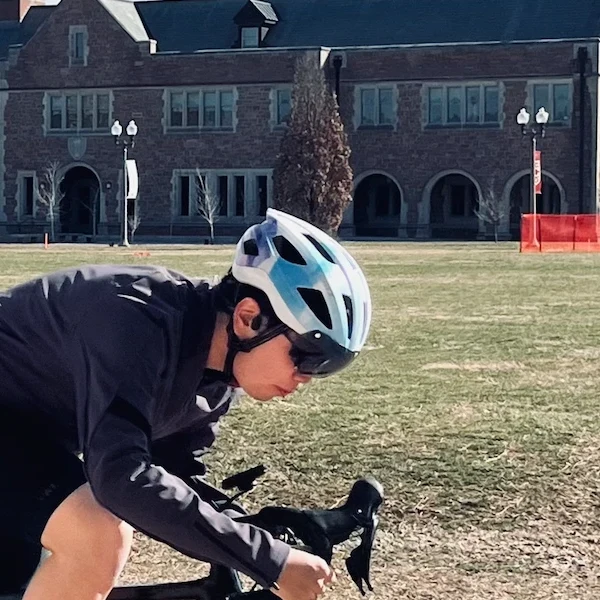
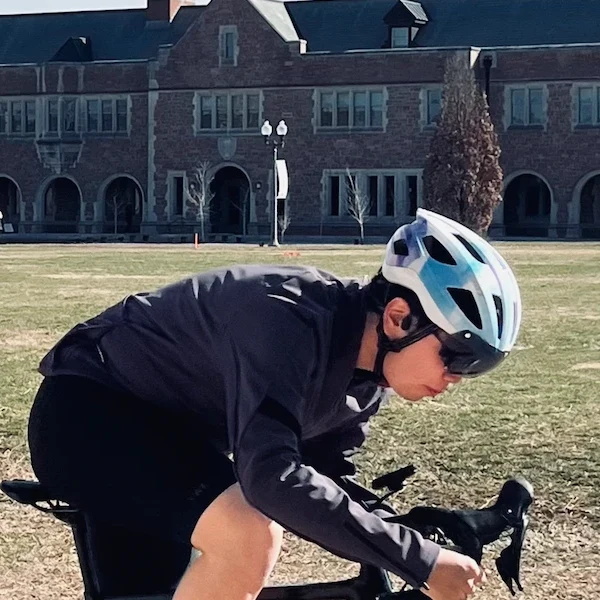
Shift the profile crop so the head sits at 3/4 of the width
The user wants more of the rider in frame, with the head towards the right.

diff --git a/CLAUDE.md b/CLAUDE.md
@@ -49,7 +49,7 @@ One page (`_pages/about.md`, layout `home`) with sections, in this order:
   those fields are in `filtered_bibtex_keywords`. Co-first authors: `{Liu*, Haoyang}` + `note`.
 - Site-wide settings (name, url, feature flags, scholar name highlighting) are in `_config.yml`.
   `url` must stay `https://haoyangliu59.github.io` and `baseurl` empty (user site).
-- Profile photo: `assets/img/profile.webp` (cycling photo on the WashU quad, square 600px crop centred on the head,
+- Profile photo: `assets/img/profile.webp` (cycling photo on the WashU quad, square 600px crop with the head at 3/4 of the width,
   metadata stripped), shown as a circle (`image_circular: true`) via `profile.image` in `_pages/about.md`. `avatar-placeholder.svg` stays as the fallback: the user wants a
   placeholder rather than no photo.
 - `imagemagick.enabled: false` and CI does not install ImageMagick or Python (keeps builds ~1 min and off

diff --git a/_pages/about.md b/_pages/about.md
@@ -5,7 +5,7 @@ permalink: /
 
 profile:
   align: right
-  image: profile.webp # file in assets/img/: square 600px crop with the head at the centre, metadata stripped
+  image: profile.webp # file in assets/img/: square 600px crop, head at 3/4 of the width and centred vertically, metadata stripped
   image_circular: true # shown as a circle
 
 social: true # social icons under the profile photo (edit _data/socials.yml)
